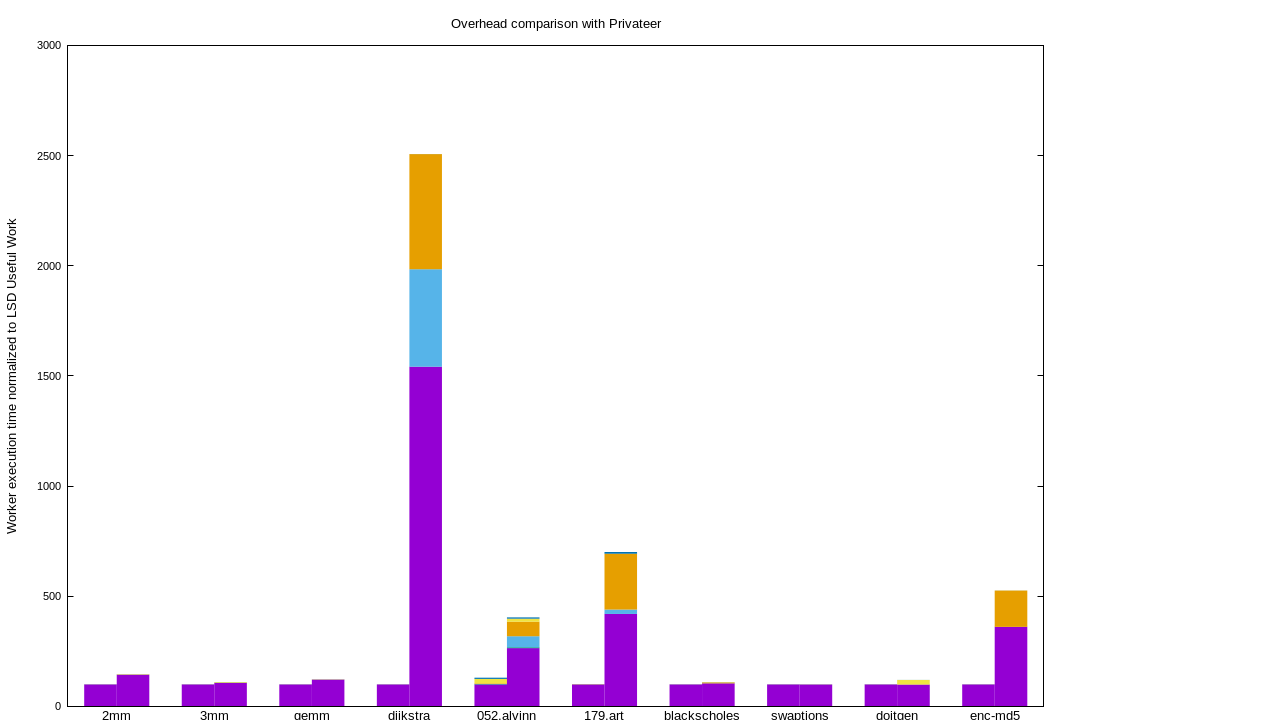
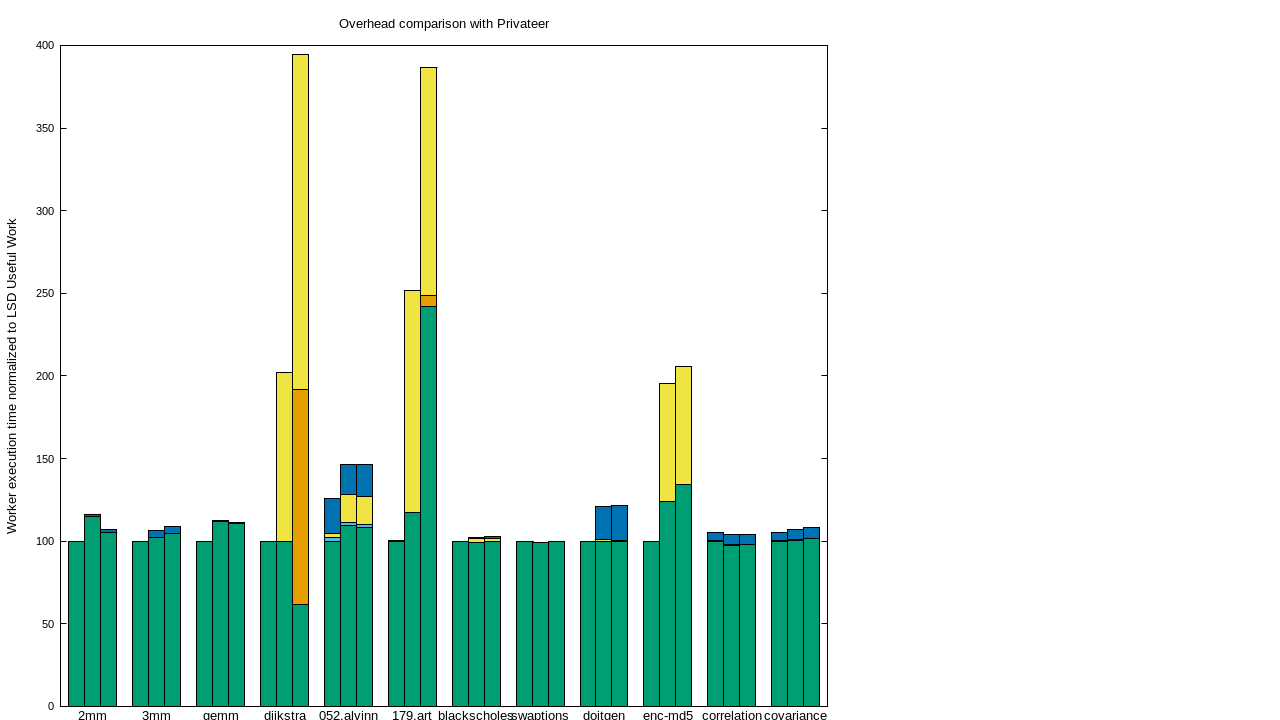
Updated overhead figure and added some text describing it in evaluation

diff --git a/doc/evaluation.tex b/doc/evaluation.tex
@@ -58,14 +58,21 @@ Present in a table for all the benchmarks which enablers were used
 
 \begin{figure*}[htp]
   \includegraphics[width=0.9\textwidth]{figures/overheads}
+  \label{fig:overheads}
+  \caption{Overhead comparison with various enablers disabled}
 \end{figure*}
 \begin{figure*}[htp]
   \includegraphics[width=0.9\textwidth]{figures/comparison}
 \end{figure*}
-Huge speedup for dijkstra is largely due to the cheaper "malloc" that
-we use in our heaps. Using a similar malloc in the sequential version
-yields ~16x speedup in dijkstra and insignificant difference in the
-other benchmarks.
+% Huge speedup for dijkstra is largely due to the cheaper "malloc" that
+% we use in our heaps. Using a similar malloc in the sequential version
+% yields ~16x speedup in dijkstra and insignificant difference in the
+% other benchmarks.
+Shown in Figure \ref{fig:overheads} is the overhead breakdown of each
+benchmark comparing \name with various enablers disabled. The useful work
+of \name is normalized to 100\%, with the others being scaled accordingly.
+These result demonstrate the correlation between the sum of the overheads
+to the speedup that can be achieved.
 
 \subsection{Misspeculation Analysis}
 \begin{figure*}[htp]
